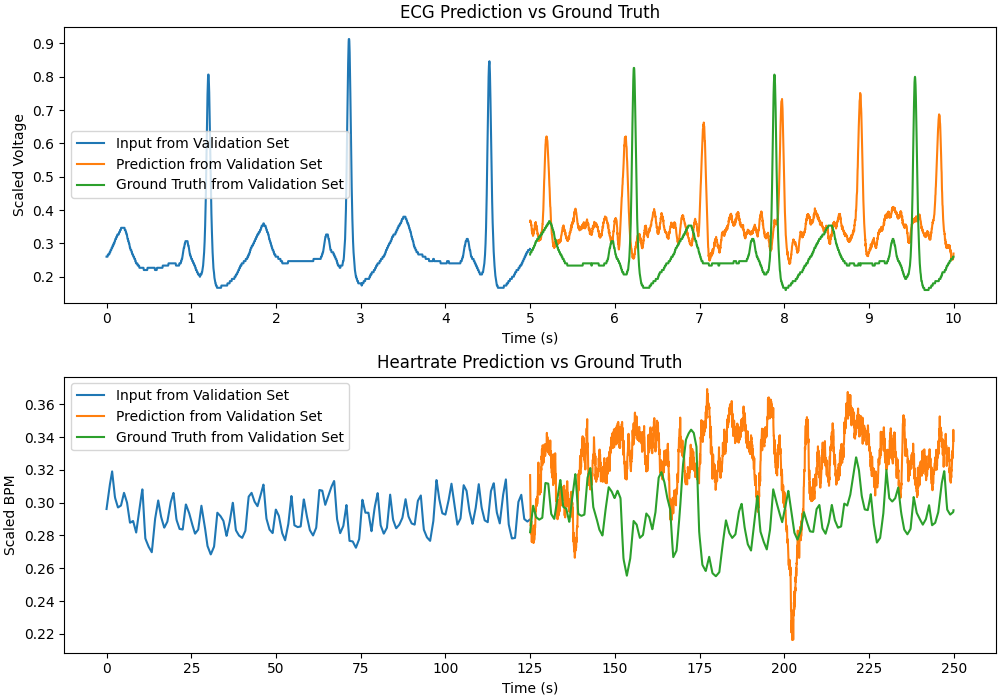
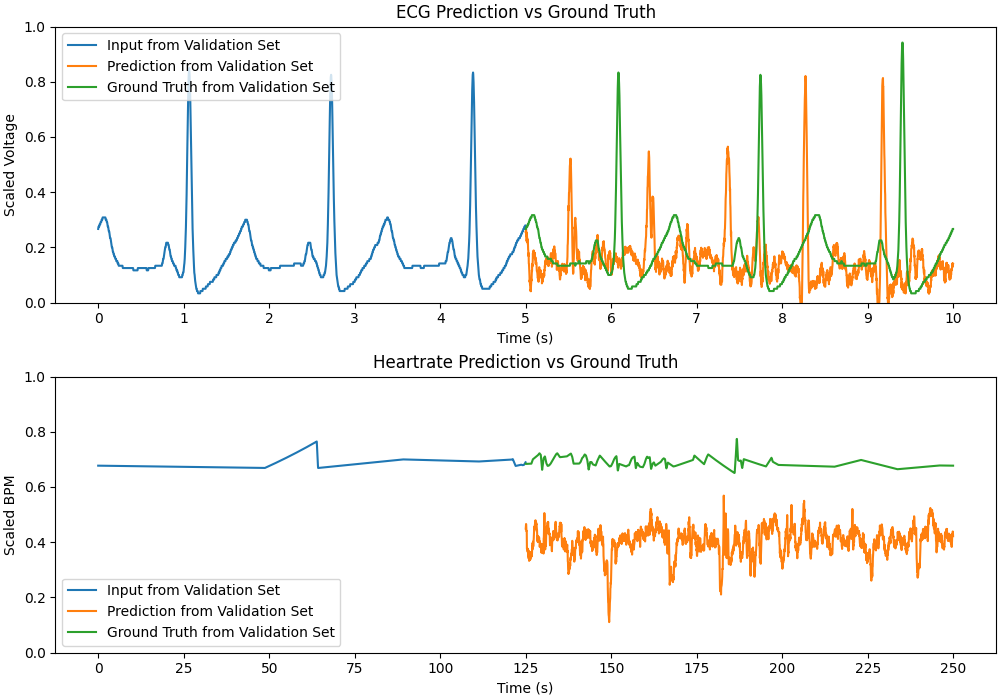
Attempted to improve nn before meeting, did not entirely suceed - determiend that dropout doesn't work - leakyrelu helps - there is likely an issue bc i am testing only on one patient

diff --git a/train_network.py b/train_network.py
@@ -7,14 +7,14 @@ import torch.nn as nn
 from torch.utils.data import TensorDataset, DataLoader
 import random
 import sys
-batch_size = 128
+batch_size = 64
 
 ecg_data =np.loadtxt('processed_data/ecg.csv', delimiter=',',dtype=np.float32)
 heartrate_data = np.loadtxt('processed_data/rr.csv', delimiter=',',dtype=np.float32)
 
 signal_length = ecg_data.shape[1]//2
-ecg_test_split = int(ecg_data.shape[0]*0.8)
-heartrate_test_split = int(heartrate_data.shape[0]*0.8)
+ecg_test_split = int(ecg_data.shape[0]*0.75)
+heartrate_test_split = int(heartrate_data.shape[0]*0.75)
 
 ecg_data_train_input = torch.from_numpy(ecg_data[:ecg_test_split,signal_length:])
 ecg_data_train_output = torch.from_numpy(ecg_data[:ecg_test_split,:signal_length])
@@ -42,9 +42,11 @@ optimizer = optim.Adam(model.parameters(), lr=1e-3)
 device = "cuda"
 model = model.to(device)
 
-"""
-epochs = 500
-for epoch in range(epochs):
+epochs = 0
+l = 100
+
+while l > 0.00005 and epochs < 1000:
+    epochs += 1
     model.train()
     running_loss = 0.0
 
@@ -64,11 +66,11 @@ for epoch in range(epochs):
         optimizer.step()
 
         running_loss += loss.item()
+    l = running_loss / len(ecg_dl)
 
-    print(f"Epoch {epoch+1}/{epochs}, Loss: {running_loss / len(ecg_dl):.4f}")
+    print(f"Epoch {epochs}: Loss={l:.4f}")
 
 torch.save(model.state_dict(), 'model.pth')
-"""
 
 model = GNN(signal_length=signal_length).cuda()
 model.load_state_dict(torch.load('model.pth', weights_only=True))
@@ -86,6 +88,7 @@ axes[0].plot(range(signal_length,signal_length*2), ecg_data_test_output[test_wav
 axes[0].set_xticks(range(0,5001,500), range(0,11))
 axes[0].set_xlabel("Time (s)")
 axes[0].set_ylabel("Scaled Voltage")
+axes[0].set_ylim(0,1)
 axes[0].legend()
 axes[0].set_title("ECG Prediction vs Ground Truth")
 
@@ -95,6 +98,7 @@ axes[1].plot(range(signal_length,signal_length*2), heartrate_pred.cpu().detach()
 axes[1].plot(range(signal_length,signal_length*2), heartrate_data_test_output[test_wave_heartrate,:].cpu().detach(), label='Ground Truth from Validation Set')
 axes[1].set_xticks(range(0,5001,500), range(0,251,25))
 axes[1].set_xlabel("Time (s)")
+axes[1].set_ylim(0,1)
 axes[1].legend()
 axes[1].set_title("Heartrate Prediction vs Ground Truth")
 plt.savefig('feed_forward_fusion_output.png')

diff --git a/neural_network.py b/neural_network.py
@@ -2,35 +2,41 @@ import torch
 import torch.nn as nn
 
 
-# Sub-network A
 class heartrate_net(nn.Module):
     def __init__(self, input_dim):
         super().__init__()
         self.net = nn.Sequential(
             nn.Linear(input_dim, 2048),
-            nn.GELU(),
+            nn.LeakyReLU(),
             nn.Linear(2048, 1024),
-            nn.GELU(),
+            nn.LeakyReLU(),
             nn.Linear(1024, 512),
-            nn.GELU(),
+            nn.LeakyReLU(),
             nn.Linear(512, 256),
+            nn.LeakyReLU(),
+            nn.Linear(256, 256),
+            nn.LeakyReLU(),
+            nn.Linear(256, 256),
+
         )
 
     def forward(self, x):
         return self.net(x)
 
-# Sub-network B
 class ecg_net(nn.Module):
     def __init__(self, input_dim):
         super().__init__()
         self.net = nn.Sequential(
             nn.Linear(input_dim, 2048),
-            nn.GELU(),
             nn.Linear(2048, 1024),
-            nn.GELU(),
+            nn.LeakyReLU(),
             nn.Linear(1024, 512),
-            nn.GELU(),
+            nn.LeakyReLU(),
             nn.Linear(512, 256),
+            nn.LeakyReLU(),
+            nn.Linear(256, 256),
+            nn.LeakyReLU(),
+            nn.Linear(256, 256),
         )
 
     def forward(self, x):
@@ -42,21 +48,20 @@ class combo_net(nn.Module):
         self.output_len = output_len
         self.hr_proj = nn.Sequential(
             nn.Linear(256, 256),
-            nn.GELU()
+            nn.LeakyReLU(),
         )
         self.ecg_proj = nn.Sequential(
             nn.Linear(256, 256),
-            nn.GELU()
+            nn.LeakyReLU(),
         )
 
         self.fusion = nn.Sequential(
             nn.Linear(256 * 2, 512),
-            nn.GELU(),
+            nn.LeakyReLU(),
             nn.Linear(512, 1024),
-            nn.GELU(),
-            nn.Linear(1024, 2048),
-            nn.GELU(),
-            nn.Linear(2048, output_len*2)
+            nn.LeakyReLU(),
+            nn.Linear(1024, output_len*2),
+            nn.LeakyReLU()
         )
 
     def forward(self, a_out, b_out):

diff --git a/process_data.py b/process_data.py
@@ -17,7 +17,7 @@ import itertools
 import matplotlib.pyplot as plt
 
 ecg_hz = 500
-heartrate_hz = 20
+heartrate_hz = 10
 snip_len = 5000
 
 def scale_data(x:np.ndarray) -> np.ndarray:
@@ -60,12 +60,15 @@ all_ppg_data = np.array([])
 for i in range(2,5): #no ppg data for patient 1
     ecg_filename = f'cong_ecg_ppg_data/ecg_signal_{i}.txt'
     ecg_file =np.loadtxt(ecg_filename)
-    if i == 4:
-        ecg_file = np.clip(ecg_file, 8150, 8300)
+    # manually trim outliers
+    if i == 2:
+        ecg_file = np.clip(ecg_file, 8145, None)
+    elif i == 3:
+        ecg_file = np.clip(ecg_file, 8170, 8295)
+    elif i == 4:
+        ecg_file = np.clip(ecg_file, 8170, 8290)
     ecg_file = scale_data(ecg_file)
-    fig = plt.figure()
-    plt.plot(ecg_file)
-    plt.show()
+
     all_ecg_data = np.append(all_ecg_data,ecg_file)
     ppg_for_patient = np.array([])
     for j in range(1,6):
